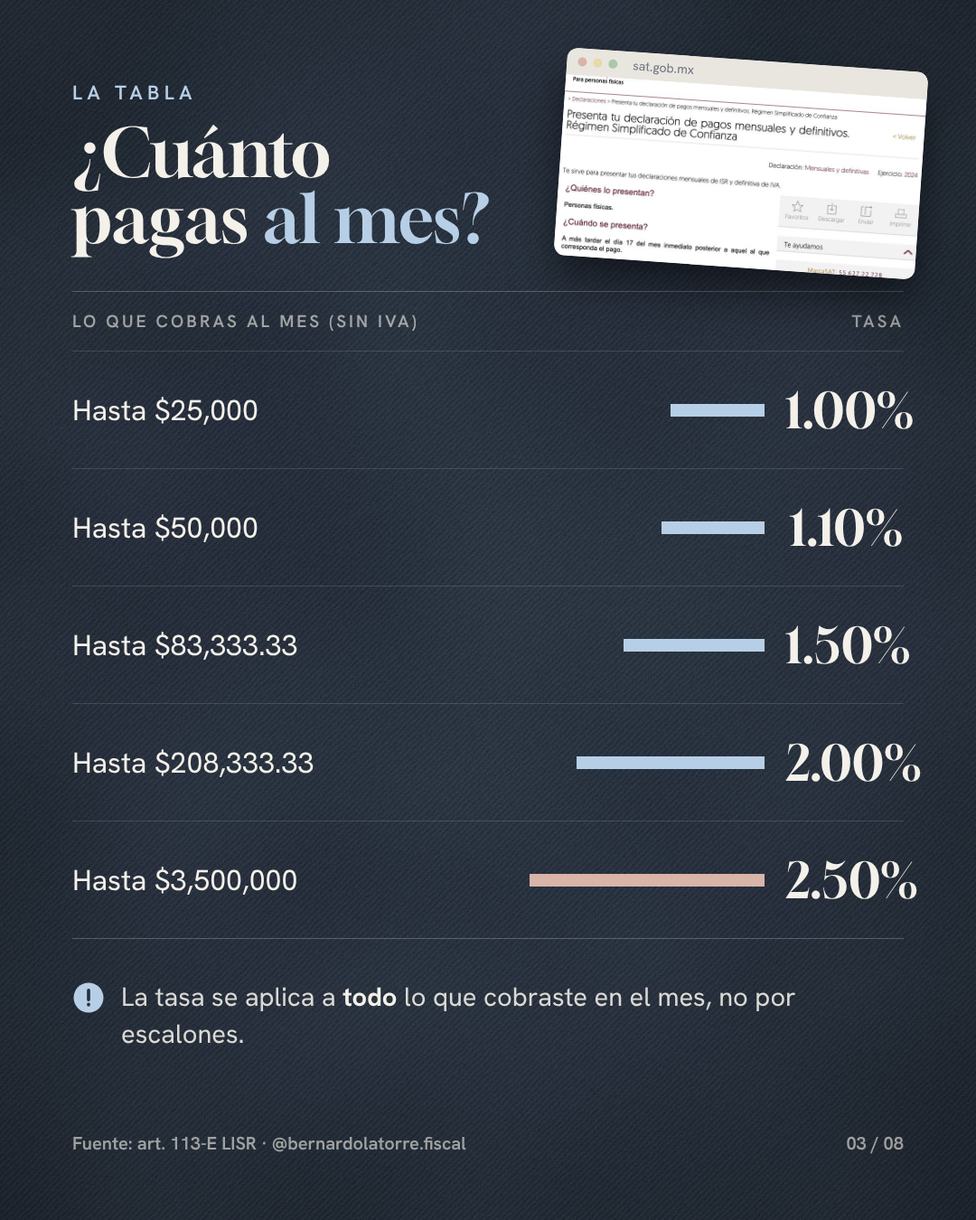
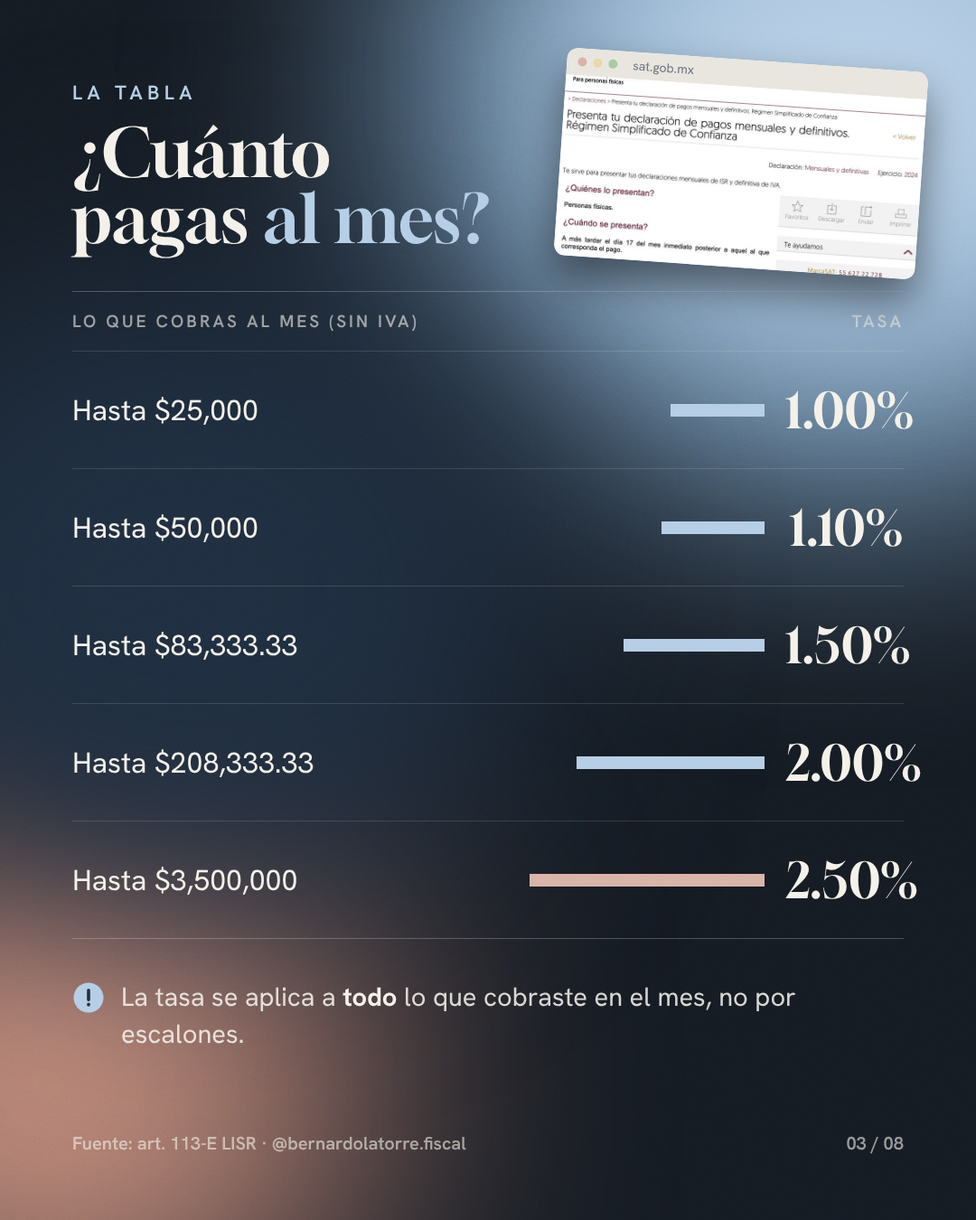
Más degradados (_marca.grad), cierre sin fotos genéricas; RESICO v3 con 4 láminas degradadas
Claude-Session: https://claude.ai/code/session_01J2dboEZNzBYhxcXmwSfC74

diff --git a/recursos/plantillas/Exe-09-Cierre.dc.html b/recursos/plantillas/Exe-09-Cierre.dc.html
@@ -22,17 +22,14 @@ a{color:inherit}
 .kicker{font-size:22px;font-weight:600;letter-spacing:0.24em}
 </style>
 </helmet>
-<div class="bg-sarga" style="width: 1080px; height: 1350px; position: relative; overflow: hidden; font-family: 'Hanken Grotesk', sans-serif; color: #F4F1EA;">
+<div class="" style="width: 1080px; height: 1350px; position: relative; overflow: hidden; font-family: 'Hanken Grotesk', sans-serif; color: #F4F1EA; isolation: isolate;">
 
-<div style="position: absolute; left: 0; top: 0; width: 1080px; height: 520px; overflow: hidden">
-<img src="/_blob/57c215dc1238a66dd8701b45fb2c7983" alt="Torres de Monterrey con la sierra" style="display: block; width: 100%; height: 100%; object-fit: cover; object-position: 50% 80%">
-<div aria-hidden="true" style="position: absolute; inset: 0; background: linear-gradient(180deg, rgba(38,47,59,0) 45%, rgba(38,47,59,1) 100%)"></div>
-</div>
-<div style="position: absolute; left: 60px; top: 60px; padding: 12px 22px; background: rgba(244,241,234,0.92); font-size: 20px; font-weight: 700; letter-spacing: 0.2em; color: #2B3542; transform: rotate(-2deg)">DESDE MONTERREY</div>
-<div aria-hidden="true" style="position: absolute; right: 30px; top: 790px; width: 470px; height: 470px; border-radius: 50%; background: #A9C9A9"></div>
-<img src="/_blob/25bcb8fe94907e94b0640cf81bd101a6" alt="Bernardo Latorre, GGTZ Consultores" style="position: absolute; right: -30px; bottom: 0; width: 540px; height: auto; filter: drop-shadow(0 14px 24px rgba(0,0,0,0.35))">
-<div style="position: relative; height: 100%; box-sizing: border-box; padding: 470px 80px 64px; display: flex; flex-direction: column; gap: 30px">
-<h2 class="serif" style="margin: 0; font-size: 84px; line-height: 0.95">¿Te depositaron<br><em style="font-style: italic; color: #B7CFE6">y no sabes qué es?</em></h2>
+<div aria-hidden="true" style="position:absolute;inset:0;z-index:-1;overflow:hidden;background:#1A2129"><div style="position:absolute;left:-250px;top:-300px;width:900px;height:700px;border-radius:50%;background:#3E5C9A;filter:blur(140px)"></div><div style="position:absolute;left:500px;top:700px;width:900px;height:900px;border-radius:50%;background:#C98F7E;filter:blur(150px)"></div><div style="position:absolute;left:650px;top:950px;width:600px;height:500px;border-radius:50%;background:#E2B48F;filter:blur(130px)"></div><div style="position:absolute;left:-300px;top:500px;width:800px;height:600px;border-radius:50%;background:#1F2E40;filter:blur(120px)"></div><svg width="1080" height="1350" style="position:absolute;inset:0;opacity:0.16;mix-blend-mode:overlay"><filter id="gr"><feTurbulence type="fractalNoise" baseFrequency="0.9" numOctaves="2" stitchTiles="stitch"/></filter><rect width="100%" height="100%" filter="url(#gr)"/></svg></div>
+<img src="/_blob/5b8391f45478910a1d0d8ca2823faf9b" alt="" aria-hidden="true" style="position: absolute; right: 80px; top: 80px; width: 130px; height: auto; transform: rotate(-8deg)">
+<div aria-hidden="true" style="position: absolute; right: 30px; top: 790px; width: 470px; height: 470px; border-radius: 50%; background: #A9C9A9; opacity: 0.9"></div>
+<img src="/_blob/25bcb8fe94907e94b0640cf81bd101a6" alt="Bernardo Latorre, Tax Consultant" style="position: absolute; right: -30px; bottom: 0; width: 540px; height: auto; filter: drop-shadow(0 14px 24px rgba(0,0,0,0.35))">
+<div style="position: relative; height: 100%; box-sizing: border-box; padding: 150px 80px 64px; display: flex; flex-direction: column; gap: 30px">
+<h2 class="serif" style="margin: 0; font-size: 92px; line-height: 0.95">¿Te depositaron<br><span style="color: #B7CFE6">y no sabes qué es?</span></h2>
 <p style="margin: 0; max-width: 470px; font-size: 30px; line-height: 1.45; color: rgba(244,241,234,0.88)">Revisamos tu caso antes de tu declaración para que no pagues de más ni te lleves sustos.</p>
 <div style="align-self: flex-start; display: inline-flex; align-items: center; gap: 18px; padding: 26px 40px; background: #F4F1EA; color: #262F3B; font-size: 28px; font-weight: 700; border-radius: 4px">Agenda tu revisión
 <svg aria-hidden="true" width="30" height="20" viewBox="0 0 40 24" fill="none" stroke="#262F3B" stroke-width="2.4"><path d="M2 12h34M26 3l10 9-10 9"></path></svg></div>

diff --git a/recursos/plantillas/Nun-08-Cierre.dc.html b/recursos/plantillas/Nun-08-Cierre.dc.html
@@ -22,17 +22,14 @@ a{color:inherit}
 .kicker{font-size:22px;font-weight:600;letter-spacing:0.24em}
 </style>
 </helmet>
-<div class="bg-sarga" style="width: 1080px; height: 1350px; position: relative; overflow: hidden; font-family: 'Hanken Grotesk', sans-serif; color: #F4F1EA;">
+<div class="" style="width: 1080px; height: 1350px; position: relative; overflow: hidden; font-family: 'Hanken Grotesk', sans-serif; color: #F4F1EA; isolation: isolate;">
 
-<div style="position: absolute; left: 0; top: 0; width: 1080px; height: 520px; overflow: hidden">
-<img src="/_blob/9040fcf6f15982c0e0dcbed5b75698cf" alt="Monterrey con la Sierra Madre al fondo" style="display: block; width: 100%; height: 100%; object-fit: cover; object-position: 50% 50%">
-<div aria-hidden="true" style="position: absolute; inset: 0; background: linear-gradient(180deg, rgba(38,47,59,0) 45%, rgba(38,47,59,1) 100%)"></div>
-</div>
-<div style="position: absolute; left: 60px; top: 60px; padding: 12px 22px; background: rgba(244,241,234,0.92); font-size: 20px; font-weight: 700; letter-spacing: 0.2em; color: #2B3542; transform: rotate(-2deg)">DESDE MONTERREY</div>
-<div aria-hidden="true" style="position: absolute; right: 30px; top: 790px; width: 470px; height: 470px; border-radius: 50%; background: #A9C9A9"></div>
-<img src="/_blob/25bcb8fe94907e94b0640cf81bd101a6" alt="Bernardo Latorre, GGTZ Consultores" style="position: absolute; right: -30px; bottom: 0; width: 540px; height: auto; filter: drop-shadow(0 14px 24px rgba(0,0,0,0.35))">
-<div style="position: relative; height: 100%; box-sizing: border-box; padding: 470px 80px 64px; display: flex; flex-direction: column; gap: 30px">
-<h2 class="serif" style="margin: 0; font-size: 84px; line-height: 0.95">¿Con cuál<br><em style="font-style: italic; color: #B7CFE6">no estás de acuerdo?</em></h2>
+<div aria-hidden="true" style="position:absolute;inset:0;z-index:-1;overflow:hidden;background:#1A2129"><div style="position:absolute;left:-250px;top:-300px;width:900px;height:700px;border-radius:50%;background:#3E5C9A;filter:blur(140px)"></div><div style="position:absolute;left:500px;top:700px;width:900px;height:900px;border-radius:50%;background:#C98F7E;filter:blur(150px)"></div><div style="position:absolute;left:650px;top:950px;width:600px;height:500px;border-radius:50%;background:#E2B48F;filter:blur(130px)"></div><div style="position:absolute;left:-300px;top:500px;width:800px;height:600px;border-radius:50%;background:#1F2E40;filter:blur(120px)"></div><svg width="1080" height="1350" style="position:absolute;inset:0;opacity:0.16;mix-blend-mode:overlay"><filter id="gr"><feTurbulence type="fractalNoise" baseFrequency="0.9" numOctaves="2" stitchTiles="stitch"/></filter><rect width="100%" height="100%" filter="url(#gr)"/></svg></div>
+<img src="/_blob/5b8391f45478910a1d0d8ca2823faf9b" alt="" aria-hidden="true" style="position: absolute; right: 80px; top: 80px; width: 130px; height: auto; transform: rotate(-8deg)">
+<div aria-hidden="true" style="position: absolute; right: 30px; top: 790px; width: 470px; height: 470px; border-radius: 50%; background: #A9C9A9; opacity: 0.9"></div>
+<img src="/_blob/25bcb8fe94907e94b0640cf81bd101a6" alt="Bernardo Latorre, Tax Consultant" style="position: absolute; right: -30px; bottom: 0; width: 540px; height: auto; filter: drop-shadow(0 14px 24px rgba(0,0,0,0.35))">
+<div style="position: relative; height: 100%; box-sizing: border-box; padding: 150px 80px 64px; display: flex; flex-direction: column; gap: 30px">
+<h2 class="serif" style="margin: 0; font-size: 92px; line-height: 0.95">¿Con cuál<br><span style="color: #B7CFE6">no estás de acuerdo?</span></h2>
 <p style="margin: 0; max-width: 470px; font-size: 30px; line-height: 1.45; color: rgba(244,241,234,0.88)">Una buena decisión fiscal también tiene que ser una buena decisión financiera.</p>
 <div style="align-self: flex-start; display: inline-flex; align-items: center; gap: 18px; padding: 26px 40px; background: #F4F1EA; color: #262F3B; font-size: 28px; font-weight: 700; border-radius: 4px">Agenda tu asesoría
 <svg aria-hidden="true" width="30" height="20" viewBox="0 0 40 24" fill="none" stroke="#262F3B" stroke-width="2.4"><path d="M2 12h34M26 3l10 9-10 9"></path></svg></div>

diff --git a/recursos/plantillas/Res2-08-Cierre.dc.html b/recursos/plantillas/Res2-08-Cierre.dc.html
@@ -15,15 +15,12 @@ a{color:#F4F1EA}a:hover{color:#B7CFE6}
 .bg-sarga{background-color:#262F3B;background-image:url(/_blob/dadb3c074dd971422db84d954c63babd);background-size:cover}
 </style>
 </helmet>
-<div class="bg-sarga" style="width: 1080px; height: 1350px; position: relative; overflow: hidden; font-family: 'Hanken Grotesk', sans-serif; color: #F4F1EA">
-<div style="position: absolute; left: 0; top: 0; width: 1080px; height: 520px; overflow: hidden">
-<img src="/_blob/e448a584e362be7c35d718376ddbb2a9" alt="Cerro de la Silla al atardecer" style="display: block; width: 100%; height: 100%; object-fit: cover; object-position: 50% 58%">
-<div aria-hidden="true" style="position: absolute; inset: 0; background: linear-gradient(180deg, rgba(38,47,59,0) 45%, rgba(38,47,59,1) 100%)"></div>
-</div>
-<div style="position: absolute; left: 60px; top: 60px; padding: 12px 22px; background: rgba(244,241,234,0.92); font-size: 20px; font-weight: 700; letter-spacing: 0.2em; color: #2B3542; transform: rotate(-2deg)">DESDE MONTERREY</div>
-<div aria-hidden="true" style="position: absolute; right: 30px; top: 790px; width: 470px; height: 470px; border-radius: 50%; background: {{circle}}"></div>
+<div style="width: 1080px; height: 1350px; position: relative; isolation: isolate; overflow: hidden; font-family: 'Hanken Grotesk', sans-serif; color: #F4F1EA">
+<div aria-hidden="true" style="position:absolute;inset:0;z-index:-1;overflow:hidden;background:#1A2129"><div style="position:absolute;left:-250px;top:-300px;width:900px;height:700px;border-radius:50%;background:#3E5C9A;filter:blur(140px)"></div><div style="position:absolute;left:500px;top:700px;width:900px;height:900px;border-radius:50%;background:#C98F7E;filter:blur(150px)"></div><div style="position:absolute;left:650px;top:950px;width:600px;height:500px;border-radius:50%;background:#E2B48F;filter:blur(130px)"></div><div style="position:absolute;left:-300px;top:500px;width:800px;height:600px;border-radius:50%;background:#1F2E40;filter:blur(120px)"></div><svg width="1080" height="1350" style="position:absolute;inset:0;opacity:0.16;mix-blend-mode:overlay"><filter id="gr"><feTurbulence type="fractalNoise" baseFrequency="0.9" numOctaves="2" stitchTiles="stitch"/></filter><rect width="100%" height="100%" filter="url(#gr)"/></svg></div>
+<div aria-hidden="true" style="position: absolute; right: 30px; top: 790px; width: 470px; height: 470px; border-radius: 50%; background: {{circle}}; opacity: 0.9"></div>
 <img src="/_blob/25bcb8fe94907e94b0640cf81bd101a6" alt="Bernardo Latorre, GGTZ Consultores" style="position: absolute; right: -30px; bottom: 0; width: 540px; height: auto; filter: drop-shadow(0 14px 24px rgba(0,0,0,0.35))">
-<div style="position: relative; height: 100%; box-sizing: border-box; padding: 470px 80px 64px; display: flex; flex-direction: column; gap: 30px">
+<img src="/_blob/5b8391f45478910a1d0d8ca2823faf9b" alt="" aria-hidden="true" style="position: absolute; right: 80px; top: 80px; width: 130px; height: auto; transform: rotate(-8deg)">
+<div style="position: relative; height: 100%; box-sizing: border-box; padding: 150px 80px 64px; display: flex; flex-direction: column; gap: 30px">
 <h2 style="margin: 0; font-family: 'Gloock', serif; font-size: 104px; line-height: 0.92; font-weight: 400">¿Estás en el<br><em style="font-style: normal; color: {{marker}}">régimen correcto?</em></h2>
 <p style="margin: 0; max-width: 470px; font-size: 30px; line-height: 1.45; color: rgba(244,241,234,0.88)">Comparamos tu caso con números reales y te decimos qué régimen te conviene.</p>
 <a href="#" style="align-self: flex-start; display: inline-flex; align-items: center; gap: 18px; padding: 26px 40px; background: #F4F1EA; color: #262F3B; text-decoration: none; font-size: 28px; font-weight: 700; border-radius: 4px">Agenda tu diagnóstico

diff --git a/recursos/plantillas/Res2-06-Trampas.dc.html b/recursos/plantillas/Res2-06-Trampas.dc.html
@@ -17,7 +17,8 @@ a{color:#2B3542}a:hover{color:#5F7E9E}
 .sticker{filter: drop-shadow(4px 0 0 #fff) drop-shadow(-4px 0 0 #fff) drop-shadow(0 4px 0 #fff) drop-shadow(0 -4px 0 #fff) drop-shadow(0 10px 14px rgba(43,53,66,0.22))}
 </style>
 </helmet>
-<div class="bg-papel" style="width: 1080px; height: 1350px; position: relative; overflow: hidden; font-family: 'Hanken Grotesk', sans-serif; color: #1E242C">
+<div style="width: 1080px; height: 1350px; position: relative; isolation: isolate; overflow: hidden; font-family: 'Hanken Grotesk', sans-serif; color: #1E242C">
+<div aria-hidden="true" style="position:absolute;inset:0;z-index:-1;overflow:hidden;background:#EEF0EA"><div style="position:absolute;left:-250px;top:-250px;width:900px;height:800px;border-radius:50%;background:#A9C9A9;filter:blur(130px)"></div><div style="position:absolute;left:500px;top:-100px;width:800px;height:700px;border-radius:50%;background:#B7CFE6;filter:blur(130px)"></div><div style="position:absolute;left:200px;top:600px;width:900px;height:700px;border-radius:50%;background:#F4F1EA;filter:blur(120px)"></div><div style="position:absolute;left:-200px;top:900px;width:800px;height:600px;border-radius:50%;background:#CFE0CF;filter:blur(120px)"></div><div style="position:absolute;left:650px;top:950px;width:600px;height:500px;border-radius:50%;background:#D9B4A8;filter:blur(140px)"></div><svg width="1080" height="1350" style="position:absolute;inset:0;opacity:0.16;mix-blend-mode:overlay"><filter id="gr"><feTurbulence type="fractalNoise" baseFrequency="0.9" numOctaves="2" stitchTiles="stitch"/></filter><rect width="100%" height="100%" filter="url(#gr)"/></svg></div>
 <div style="height: 100%; box-sizing: border-box; padding: 88px 80px 72px; display: flex; flex-direction: column; gap: 52px">
 <div style="display: flex; flex-direction: column; gap: 16px; padding-right: 230px">
 <div style="font-size: 22px; font-weight: 600; letter-spacing: 0.24em; color: #5F7E9E">LO QUE CASI NADIE TE DICE</div>

diff --git a/recursos/plantillas/Res2-03-Tasas.dc.html b/recursos/plantillas/Res2-03-Tasas.dc.html
@@ -15,7 +15,8 @@ a{color:#F4F1EA}a:hover{color:#B7CFE6}
 .bg-sarga{background-color:#262F3B;background-image:url(/_blob/dadb3c074dd971422db84d954c63babd);background-size:cover}
 </style>
 </helmet>
-<div class="bg-sarga" style="width: 1080px; height: 1350px; position: relative; overflow: hidden; font-family: 'Hanken Grotesk', sans-serif; color: #F4F1EA">
+<div style="width: 1080px; height: 1350px; position: relative; isolation: isolate; overflow: hidden; font-family: 'Hanken Grotesk', sans-serif; color: #F4F1EA">
+<div aria-hidden="true" style="position:absolute;inset:0;z-index:-1;overflow:hidden;background:#151B23"><div style="position:absolute;left:450px;top:-350px;width:1000px;height:900px;border-radius:50%;background:#7FA3C4;filter:blur(140px)"></div><div style="position:absolute;left:650px;top:-150px;width:600px;height:500px;border-radius:50%;background:#B7CFE6;filter:blur(110px)"></div><div style="position:absolute;left:-300px;top:900px;width:700px;height:600px;border-radius:50%;background:#C98F7E;filter:blur(160px)"></div><div style="position:absolute;left:-200px;top:300px;width:800px;height:700px;border-radius:50%;background:#1F2E40;filter:blur(120px)"></div><svg width="1080" height="1350" style="position:absolute;inset:0;opacity:0.16;mix-blend-mode:overlay"><filter id="gr"><feTurbulence type="fractalNoise" baseFrequency="0.9" numOctaves="2" stitchTiles="stitch"/></filter><rect width="100%" height="100%" filter="url(#gr)"/></svg></div>
 <div style="height: 100%; box-sizing: border-box; padding: 88px 80px 72px; display: flex; flex-direction: column; gap: 44px">
 <div style="display: flex; flex-direction: column; gap: 16px">
 <div style="font-size: 22px; font-weight: 600; letter-spacing: 0.24em; color: {{marker}}">LA TABLA</div>

diff --git a/recursos/plantillas/_gen_oct20_22.py b/recursos/plantillas/_gen_oct20_22.py
@@ -71,28 +71,29 @@ def num_badge(n, dark=False):
     bg = "#B7CFE6" if dark else "#2B3542"; fg = "#262F3B" if dark else "#F4F1EA"
     return f'<div class="serif" style="width: 96px; height: 96px; border-radius: 50%; background: {bg}; color: {fg}; display: flex; align-items: center; justify-content: center; font-size: 64px; line-height: 1">{n}</div>'
 
-def cierre(title, pregunta_em, texto, cta, comenta, photo, pos, n, tot, alt):
+def cierre(title, pregunta_em, texto, cta, comenta, photo=None, pos=None, n=None, tot=None, alt=None, fondo="atardecer"):
+    # 13 oct 2026: sin fotos genéricas (Berny lo pidió). Fondo degradado de marca + sello + logo horizontal.
+    # `photo`, `pos` y `alt` se ignoran; se conservan para no romper generadores viejos.
+    import importlib.util as _u, pathlib as _p
+    _s = _u.spec_from_file_location("_marca", _p.Path(__file__).parent / "_marca.py"); _m = _u.module_from_spec(_s); _s.loader.exec_module(_m)
     inner = f"""
-<div style="position: absolute; left: 0; top: 0; width: 1080px; height: 520px; overflow: hidden">
-<img src="{B(photo)}" alt="{alt}" style="display: block; width: 100%; height: 100%; object-fit: cover; object-position: {pos}">
-<div aria-hidden="true" style="position: absolute; inset: 0; background: linear-gradient(180deg, rgba(38,47,59,0) 45%, rgba(38,47,59,1) 100%)"></div>
-</div>
-<div style="position: absolute; left: 60px; top: 60px; padding: 12px 22px; background: rgba(244,241,234,0.92); font-size: 20px; font-weight: 700; letter-spacing: 0.2em; color: #2B3542; transform: rotate(-2deg)">DESDE MONTERREY</div>
-<div aria-hidden="true" style="position: absolute; right: 30px; top: 790px; width: 470px; height: 470px; border-radius: 50%; background: #A9C9A9"></div>
-<img src="{B('berny')}" alt="Bernardo Latorre, GGTZ Consultores" style="position: absolute; right: -30px; bottom: 0; width: 540px; height: auto; filter: drop-shadow(0 14px 24px rgba(0,0,0,0.35))">
-<div style="position: relative; height: 100%; box-sizing: border-box; padding: 470px 80px 64px; display: flex; flex-direction: column; gap: 30px">
-<h2 class="serif" style="margin: 0; font-size: 84px; line-height: 0.95">{title}<br><em style="font-style: italic; color: #B7CFE6">{pregunta_em}</em></h2>
+{_m.grad(fondo)}
+<img src="{_m.SELLO_MARFIL}" alt="" aria-hidden="true" style="position: absolute; right: 80px; top: 80px; width: 130px; height: auto; transform: rotate(-8deg)">
+<div aria-hidden="true" style="position: absolute; right: 30px; top: 790px; width: 470px; height: 470px; border-radius: 50%; background: #A9C9A9; opacity: 0.9"></div>
+<img src="{B('berny')}" alt="Bernardo Latorre, Tax Consultant" style="position: absolute; right: -30px; bottom: 0; width: 540px; height: auto; filter: drop-shadow(0 14px 24px rgba(0,0,0,0.35))">
+<div style="position: relative; height: 100%; box-sizing: border-box; padding: 150px 80px 64px; display: flex; flex-direction: column; gap: 30px">
+<h2 class="serif" style="margin: 0; font-size: 92px; line-height: 0.95">{title}<br><span style="color: #B7CFE6">{pregunta_em}</span></h2>
 <p style="margin: 0; max-width: 470px; font-size: 30px; line-height: 1.45; color: rgba(244,241,234,0.88)">{texto}</p>
 <div style="align-self: flex-start; display: inline-flex; align-items: center; gap: 18px; padding: 26px 40px; background: #F4F1EA; color: #262F3B; font-size: 28px; font-weight: 700; border-radius: 4px">{cta}
 <svg aria-hidden="true" width="30" height="20" viewBox="0 0 40 24" fill="none" stroke="#262F3B" stroke-width="2.4"><path d="M2 12h34M26 3l10 9-10 9"></path></svg></div>
 <div style="max-width: 440px; padding: 22px 28px; background: rgba(244,241,234,0.08); border: 1px solid rgba(244,241,234,0.22); transform: rotate(-1.5deg); font-size: 25px; line-height: 1.4">{comenta}</div>
 <div style="margin-top: auto; display: flex; flex-direction: column; gap: 8px; font-size: 24px; font-weight: 500">
 <span>81 2758 0277 · @bernardolatorre.fiscal</span>
-<img src="/_blob/916dbd49a3cb1e203b606fc4f660fbea" alt="Bernardo Latorre, Tax Consultant" style="width: 320px; height: auto; margin-left: -8px">
+<img src="{_m.LOGO_H_MARFIL}" alt="Bernardo Latorre, Tax Consultant" style="width: 320px; height: auto; margin-left: -8px">
 <span style="font-size: 15px; font-weight: 700; letter-spacing: 0.26em; color: rgba(244,241,234,0.7)">SOCIO EN GGTZ CONSULTORES</span>
 </div>
 </div>"""
-    return page("Cierre", "bg-sarga", "#F4F1EA", inner)
+    return page("Cierre", "", "#F4F1EA", inner, " isolation: isolate;")
 
 def sello(text, color, rot, x, y, size=30):
     return (f'<div style="position: absolute; left: {x}px; top: {y}px; padding: 10px 24px; border: 5px solid {color}; color: {color}; '

diff --git a/recursos/plantillas/_marca.py b/recursos/plantillas/_marca.py
@@ -1,0 +1,37 @@
+# Piezas compartidas de la identidad de marca (13 oct 2026): fondos degradados y logos.
+# Uso: import desde cualquier generador con importlib (ver _gen_oct20_22.py) o copiar la función.
+
+LOGO_H_MARFIL = "/_blob/916dbd49a3cb1e203b606fc4f660fbea"
+LOGO_H_PIZARRA = "/_blob/7afe418b8551e87bb3f0f8e196d8230f"
+SELLO_MARFIL = "/_blob/5b8391f45478910a1d0d8ca2823faf9b"
+SELLO_PIZARRA = "/_blob/89b150b4a0eaffd521105fa61198e074"
+
+# Cada degradado: color base + manchas (x, y, ancho, alto, color, desenfoque) en una lámina de 1080x1350.
+# Oscuros (texto marfil): sierra, noche, atardecer, neblina (arriba oscuro, abajo claro).  Claros (texto tinta): salvia, bruma.
+GRADIENTES = {
+    "sierra": ("#1C2027", [(-350, -250, 750, 1100, "#E2B48F", 110), (-80, -200, 700, 600, "#C98F7E", 120), (120, -80, 900, 520, "#3E5C9A", 120),
+                           (-330, 650, 620, 900, "#D8A784", 120), (-100, 900, 650, 500, "#2F4A86", 120)]),
+    "noche": ("#151B23", [(450, -350, 1000, 900, "#7FA3C4", 140), (650, -150, 600, 500, "#B7CFE6", 110), (-300, 900, 700, 600, "#C98F7E", 160),
+                          (-200, 300, 800, 700, "#1F2E40", 120)]),
+    "atardecer": ("#1A2129", [(-250, -300, 900, 700, "#3E5C9A", 140), (500, 700, 900, 900, "#C98F7E", 150), (650, 950, 600, 500, "#E2B48F", 130),
+                              (-300, 500, 800, 600, "#1F2E40", 120)]),
+    "neblina": ("#1C2B38", [(-200, -150, 1200, 900, "#2D5566", 140), (-300, 250, 1000, 700, "#152635", 120), (300, 700, 1100, 600, "#5F8FA6", 150),
+                            (-200, 950, 1500, 700, "#E9EEF2", 120), (500, 1000, 700, 500, "#B7CFE6", 110)]),
+    "salvia": ("#EEF0EA", [(-250, -250, 900, 800, "#A9C9A9", 130), (500, -100, 800, 700, "#B7CFE6", 130), (200, 600, 900, 700, "#F4F1EA", 120),
+                           (-200, 900, 800, 600, "#CFE0CF", 120), (650, 950, 600, 500, "#D9B4A8", 140)]),
+    "bruma": ("#F1F2F2", [(-300, -200, 1000, 700, "#C9DAEA", 130), (500, 300, 800, 800, "#F4F1EA", 120), (-200, 800, 900, 700, "#E3D2CB", 140),
+                          (600, 1000, 700, 500, "#B7CFE6", 130)]),
+}
+
+def grad(nombre, h=1350):
+    """Capa de fondo degradado para meter como PRIMER hijo de la lámina.
+    La lámina debe llevar `isolation: isolate` (la capa va con z-index -1 para quedar debajo de todo)."""
+    base, manchas = GRADIENTES[nombre]
+    k = h / 1350
+    capas = "".join(
+        f'<div style="position:absolute;left:{x}px;top:{round(y*k)}px;width:{w}px;height:{round(hh*k)}px;border-radius:50%;background:{c};filter:blur({b}px)"></div>'
+        for x, y, w, hh, c, b in manchas)
+    ruido = ('<svg width="1080" height="%d" style="position:absolute;inset:0;opacity:0.16;mix-blend-mode:overlay">'
+             '<filter id="gr"><feTurbulence type="fractalNoise" baseFrequency="0.9" numOctaves="2" stitchTiles="stitch"/></filter>'
+             '<rect width="100%%" height="100%%" filter="url(#gr)"/></svg>') % h
+    return f'<div aria-hidden="true" style="position:absolute;inset:0;z-index:-1;overflow:hidden;background:{base}">{capas}{ruido}</div>'

diff --git a/recursos/GUIA-ESTILO.md b/recursos/GUIA-ESTILO.md
@@ -30,12 +30,7 @@ Logo "Bernardo Latorre · Tax Consultant" (inspiración: tipografía serif clás
   - Texto en #1E242C. **Nunca dorado.**
 - **Tipografía:** Gloock para los títulos (palabra clave en color, sin cursiva; ver Identidad de marca) y Hanken Grotesk para el texto. Las etiquetas pequeñas van en mayúsculas con letter-spacing de 0.24em.
 - **Portada:** nunca lleva la foto de Berny (excepción: posts de presentación personal, donde él pidió salir en portada y un tono formal). Su foto (sticker recortado) aparece solo en la última lámina, junto al botón para agendar.
-- **Última lámina:**
-  - Una foto real de Monterrey en una banda superior.
-  - Una pregunta en grande.
-  - Un botón de llamada a la acción.
-  - Una tarjeta que invite a comentar o a guardar.
-  - "81 2758 0277 · @bernardolatorre.fiscal" y el logotipo GGTZ CONSULTORES.
+- **Última lámina (13 oct 2026: SIN fotos genéricas):** nunca fotos de banco ni de Monterrey. Usa la función `cierre()` de `_gen_oct20_22.py`: fondo degradado de marca, sello BL arriba, pregunta en grande, botón de llamada a la acción, tarjeta para comentar/guardar, el sticker de Berny sobre círculo salvia, "81 2758 0277 · @bernardolatorre.fiscal", el logo horizontal y "SOCIO EN GGTZ CONSULTORES".
 - **Pie de cada lámina:** la fuente legal ("Fuente: art. X LISR"), el usuario de Instagram y la numeración "03 / 08".
 - **Datos:** toda cifra o artículo se verifica en la ley vigente (Luthor o una fuente oficial) o en el DOF y el SAT antes de usarse.
 - **Imágenes:**
@@ -54,6 +49,12 @@ Berny pidió (10 oct 2026) que las portadas nunca se vean iguales. Antes de dise
 
 Después de renderizar, arma una tira con tu portada nueva junto a las 4 anteriores y mírala: si dos se parecen a primera vista, rehaz la nueva. Anota en `historial.md` la composición **y el motivo principal**.
 
+## Degradados (pedido de Berny, 13 oct 2026: usarlos MÁS)
+
+- **En cada carrusel, al menos 3 láminas con fondo degradado**, siempre la última (`cierre()`) y de preferencia la portada; reparte las demás entre las de en medio (una oscura y una clara funcionan bien). Las otras alternan con lino, papel, sarga, foto o color liso.
+- Se hacen con `grad(nombre)` de `recursos/plantillas/_marca.py` (capa que va como PRIMER hijo de la lámina; la lámina lleva `isolation: isolate`). Degradados disponibles: oscuros (texto marfil) `sierra`, `noche`, `atardecer`, `neblina`; claros (texto tinta) `salvia`, `bruma`. Ejemplos: `Grad-0*.dc.html` y el RESICO v3 (`Res2-*`).
+- Solo con colores de la paleta; nunca dorado ni amarillo. No pongas dos láminas seguidas con el mismo degradado.
+
 ## Ritmo visual (para que no se vea plano)
 
 - **Alternar fondos.** Nunca dos láminas seguidas con el mismo fondo. Las opciones son:
@@ -63,7 +64,8 @@ Después de renderizar, arma una tira con tu portada nueva junto a las 4 anterio
   - Foto a todo lo ancho con degradado pizarra.
   - Bloque de color sólido.
 - **Por carrusel, como mínimo:**
-  - 3 fotos reales.
+  - 3 láminas con degradado (ver arriba).
+  - 2 fotos reales en las láminas de en medio (nunca en la última).
   - 1 captura de pantalla real (del SAT, el DOF, el IMSS o Banxico) si el tema lo permite.
   - 1 lámina oscura.
   - 1 lámina con un número grande como protagonista.
